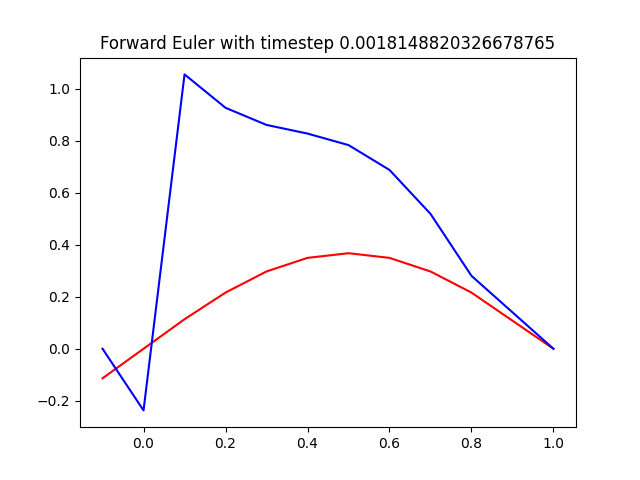
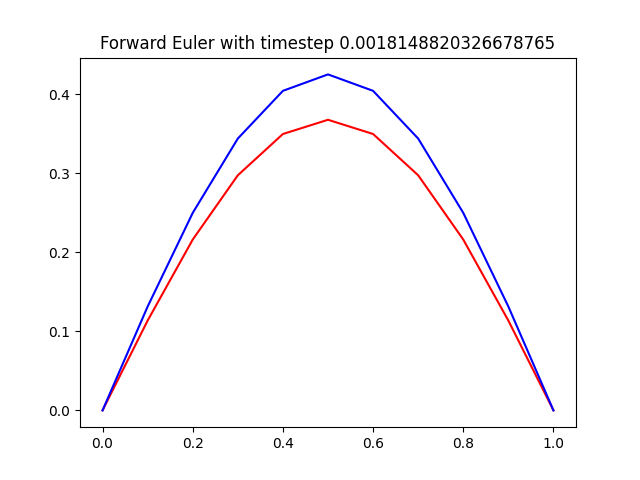
Work on graphing FE more

diff --git a/CG-FEM-Heat-Eqn/Heat_GalerkinFEM.py b/CG-FEM-Heat-Eqn/Heat_GalerkinFEM.py
@@ -26,55 +26,96 @@ def nontriv_mat(N,Ne,h):
     K=K/h
     # Now building reduced versions
     twos=(Ne-1)*[2]
-    ones=np.ones(Ne-2)
-    M_red=(np.diag(twos)+np.diag(ones,k=-1)+np.diag(ones,k=1))*(h/6)
+    ones=(Ne-2)*[1]
+    M_red=(np.diag(twos)+np.diag(ones,k=-1)+np.diag(ones,k=1))
     M_inv=LA.inv(M_red) # M_inv is inverse of reduced M matrix
-    K_red=(np.diag(twos)+np.diag(-1*ones,k=-1)+np.diag(-1*ones,k=1))/6
-    return M,M_red,K,K_red,M_inv
+    K_red=(np.diag(twos)+np.diag(-1*ones,k=-1)+np.diag(-1*ones,k=1))
+    K_red=K_red/h
+    return K_red,M_inv
 
-def gridMap(N,Ne,xl,xr,h,x):
+def gridMap(Ne,xl,xr,h,x):
     i=0
     iee=np.zeros((Ne,2))
     while i<Ne:
-        x[i]=xl+(i-1)*h
+        x[i]=xl+(i)*h
         iee[i][0]=i
         iee[i][1]=i+1
         i+=1
+    x[Ne]=xr
     return x,iee
 
 def dbc(x):
     ux=np.sin(np.pi*x)
     return ux
 
-def forEul(nt,t0,dt,Ne,h,q1,q2,iee,x,M_inv,K_red,x_red,M,K,N):
+def forEul(nt,t0,dt,Ne,h,iee,x,M_inv,K_red,x_red):
     # Used quadrature to integrate F, work is in pdf
     # Now performing local element calculations
     n=1
-    k=0
-    l=0
-    F=np.zeros(Ne-1)
-    # F=np.zeros(N)
+    
+    dx=h/2
     u=dbc(x_red)
-    # u=dbc(x)
     while n<=nt:
+        F=np.zeros(Ne)
         ctime=t0+n*dt
-        n+=1
+        k=0
         # Build time dependent RHS vector
-        while k<Ne: # loop over grid elements
+        while k<Ne-1: # loop over grid elements
             # 2 local nodes for every 1D element, 2nd order gaussian quadrature
+            q1=1/m.sqrt(3) # Quadrature points, weights=1 in second order quadrature; if user chooses a higher order, initialize weights and intro in equation; here they are redundant
+            q2=-1/m.sqrt(3)
+            q1map=(q1+1)*dx+x[k+1]
+            q2map=(q2+1)*dx+x[k+1]
             flocal=[0,0]
-            flocal[0]=(np.pi**2-1)*np.exp(-ctime)*(h/2)*(phi1(q1)*np.sin(np.pi*q1)+phi1(q2)*np.sin(np.pi*q2))
-            flocal[1]=(np.pi**2-1)*np.exp(-ctime)*(h/2)*(phi2(q1)*np.sin(np.pi*q1)+phi2(q2)*np.sin(np.pi*q2))
-
+            flocal[0]=(np.pi**2-1)*np.exp(-ctime)*(h/2)*(phi1(q1)*np.sin(np.pi*q1map)+phi1(q2)*np.sin(np.pi*q2map))
+            flocal[1]=(np.pi**2-1)*np.exp(-ctime)*(h/2)*(phi2(q1)*np.sin(np.pi*q1map)+phi2(q2)*np.sin(np.pi*q2map))
+            
             # Finite Element Assembly
+            l=0
             while l<2:
                 global_node1=iee[k][l]
                 F[int(global_node1)]+=flocal[l]
                 l+=1
             k+=1
         # forward euler
-        u=u-dt*M_inv@K_red@u+dt*M_inv@F
-        # u=u-dt*LA.inv(M)@K@u+dt*LA.inv(M)@F
+        F_red=F[0:-1]
+        u=u-dt*((1/6)*(M_inv@K_red))@u+dt*(M_inv*(h/6))@F_red
+        n+=1
+    return u
+
+def backEul(nt,t0,dt,Ne,h,iee,x,M_inv,K_red,x_red):
+        # Used quadrature to integrate F, work is in pdf
+    # Now performing local element calculations
+    n=1
+    
+    dx=h/2
+    u=dbc(x_red)
+    while n<=nt:
+        F=np.zeros(Ne)
+        ctime=t0+n*dt
+        k=0
+        # Build time dependent RHS vector
+        while k<Ne-1: # loop over grid elements
+            # 2 local nodes for every 1D element, 2nd order gaussian quadrature
+            q1=1/m.sqrt(3) # Quadrature points, weights=1 in second order quadrature; if user chooses a higher order, initialize weights and intro in equation; here they are redundant
+            q2=-1/m.sqrt(3)
+            q1map=(q1+1)*dx+x[k+1]
+            q2map=(q2+1)*dx+x[k+1]
+            flocal=[0,0]
+            flocal[0]=(np.pi**2-1)*np.exp(-ctime)*(h/2)*(phi1(q1)*np.sin(np.pi*q1map)+phi1(q2)*np.sin(np.pi*q2map))
+            flocal[1]=(np.pi**2-1)*np.exp(-ctime)*(h/2)*(phi2(q1)*np.sin(np.pi*q1map)+phi2(q2)*np.sin(np.pi*q2map))
+            
+            # Finite Element Assembly
+            l=0
+            while l<2:
+                global_node1=iee[k][l]
+                F[int(global_node1)]+=flocal[l]
+                l+=1
+            k+=1
+        # forward euler
+        F_red=F[0:-1]
+        u_next=u-dt*((1/6)*(M_inv@K_red))@u+dt*(M_inv*(h/6))@F_red # left off here
+        n+=1
     return u
 
 def main():
@@ -86,25 +127,22 @@ def main():
     h=(xr-xl)/Ne
     x=np.linspace(xl,xr,N)
     x_red=x[1:-1]
-    u_x=np.sin(np.pi*x) # u(x,0)=sin(pi*x)
-    u_0=0 # u(0,t)=u(1,t)=0
-    t0=0
+    t0=0 #time constants
     tf=1
     dt=1/551
-    dc=2/h
-    dx=h/2
     nt=(tf-t0)/dt
-    q1=1/m.sqrt(3) # Quadrature points, weights=1 in second order quadrature; if user chooses a higher order, initialize weights and intro in equation; here they are redundant
-    q2=-1/m.sqrt(3)
     
-    M,M_red,K,K_red,M_inv=nontriv_mat(N,Ne,h)
-    x,iee=gridMap(N,Ne,xl,xr,h,x)
-    u=forEul(nt,t0,dt,Ne,h,q1,q2,iee,x,M_inv,K_red,x_red,M,K,N)
+    # Call Functions
+    K_red,M_inv=nontriv_mat(N,Ne,h)
+    x,iee=gridMap(Ne,xl,xr,h,x)
+    u=forEul(nt,t0,dt,Ne,h,iee,x,M_inv,K_red,x_red)
+    v=backEul(nt,t0,dt,Ne,h,iee,x,M_inv,K_red,x_red)
     # Add natural bcs to u
     nat0=0 # u(0,t)=u(1,t)=0
     nat1=0
     u=np.append(u,nat1)
     u=np.insert(u,0,nat0)
+    print('u = ')
     print(u)
 
     # Plotting
@@ -113,6 +151,7 @@ def main():
     plt.plot(x,exact_sol,color='red',label='Exact Solution')
     plt.plot(x,u,color='blue',label='FEM estimate')
     plt.title('Forward Euler with timestep ' + str(dt))
+    plt.legend()
     plt.show()
 
 if __name__ == '__main__':
